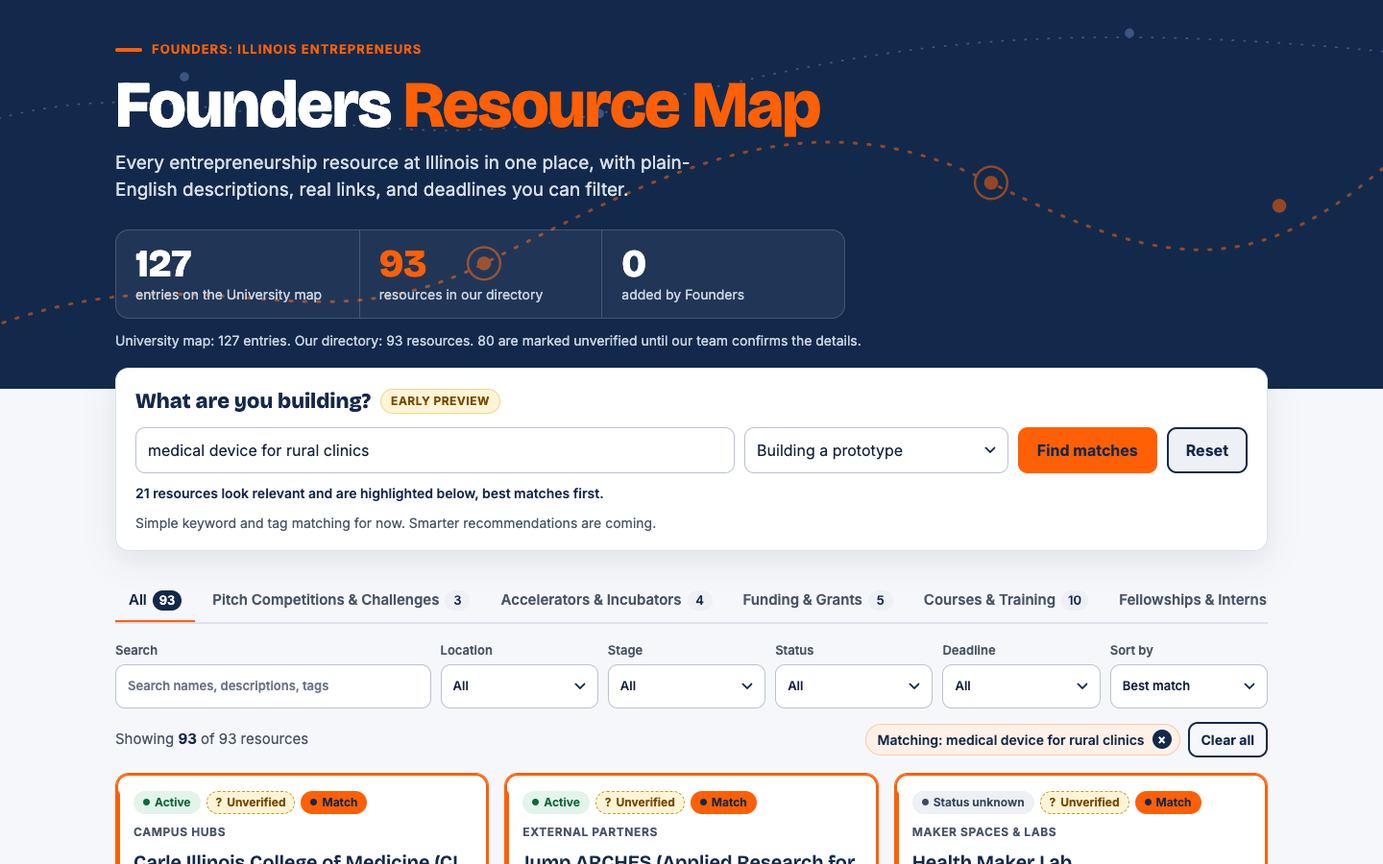
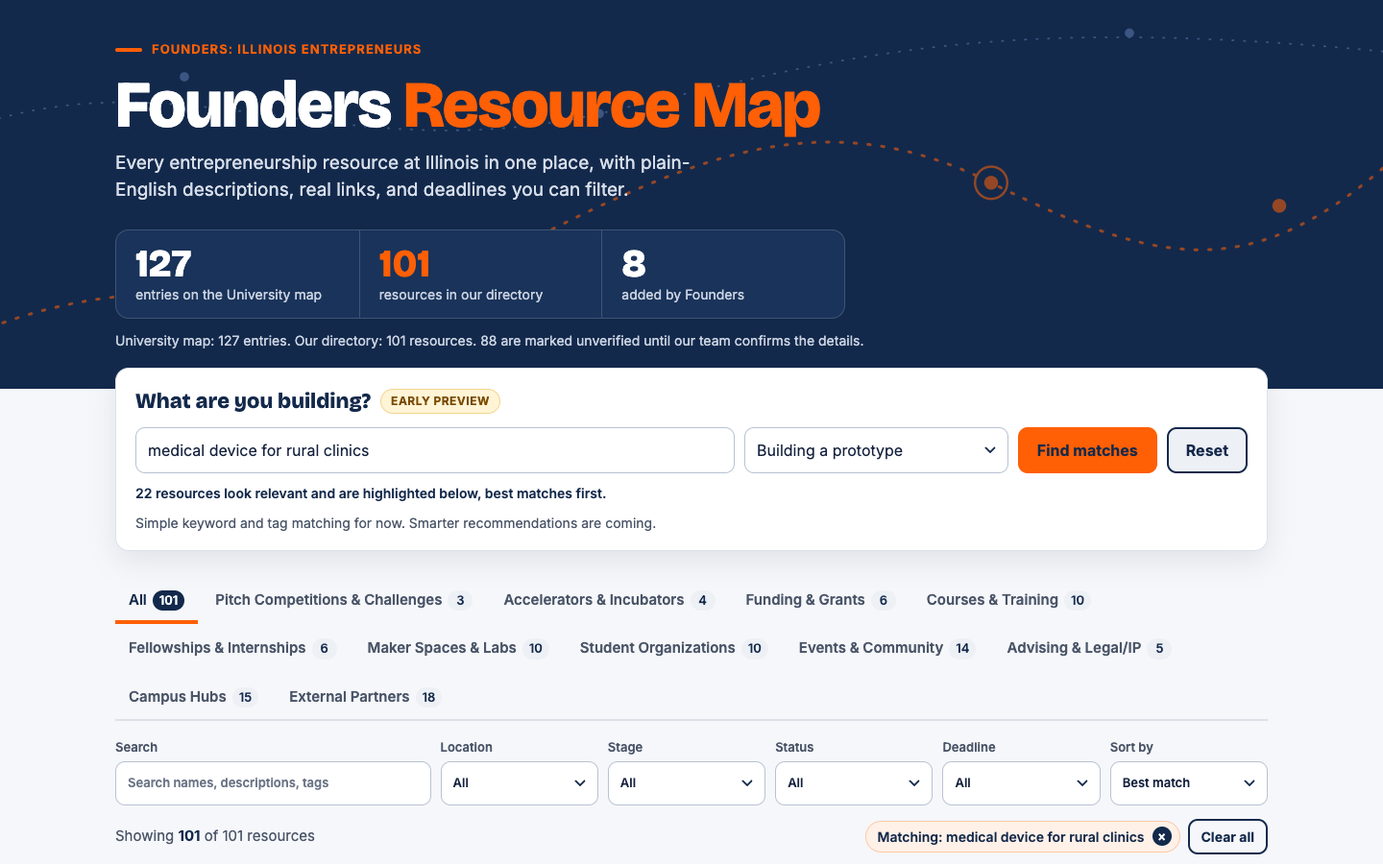
Build the GBM site, gap analysis, README, and screenshots
- docs/index.html: self-contained directory with tabs, search, filters,
  chips, deadline sort, detail panel, unverified markers, early-preview matcher
- scripts/test_site.cjs: Playwright smoke test; screenshots in docs/screenshots
- notes/gap_analysis.md with evidence for additions and stale map entries
- README with publishing, Airtable import, and verification policy

diff --git a/docs/index.html b/docs/index.html
@@ -122,6 +122,7 @@ select { appearance: none; padding-right: 34px;
 }
 .tab:hover { color: var(--navy); }
 .tab[aria-selected=true] { color: var(--navy); border-bottom-color: var(--orange); }
+@media (min-width: 900px) { .tabs { flex-wrap: wrap; overflow: visible; } }
 .tab .count { display: inline-block; min-width: 26px; margin-left: 6px; padding: 1px 7px; border-radius: 999px; background: var(--gray-soft); color: var(--navy); font-size: 13px; text-align: center; }
 .tab[aria-selected=true] .count { background: var(--navy); color: #fff; }
 
@@ -197,7 +198,7 @@ dialog.detail[open] { animation: slide .18s ease-out; }
 @media (prefers-reduced-motion: reduce) { dialog.detail[open], .card { animation: none; transition: none; } }
 .detail-inner { display: flex; flex-direction: column; height: 100%; }
 .detail-head { background: var(--navy); color: #fff; padding: calc(env(safe-area-inset-top, 0px) + 20px) 22px 20px; position: relative; }
-.detail-head .cat { color: var(--orange); font-size: 12px; font-weight: 700; letter-spacing: .06em; text-transform: uppercase; }
+.detail-head .cat { margin-right: 48px; color: var(--orange); font-size: 12px; font-weight: 700; letter-spacing: .06em; text-transform: uppercase; }
 .detail-head h2 { font-family: var(--display); font-size: 28px; line-height: 1.1; margin: 6px 44px 10px 0; }
 .detail-head .close { position: absolute; top: calc(env(safe-area-inset-top, 0px) + 14px); right: 14px; width: 40px; height: 40px; border-radius: 10px; border: 1.5px solid rgba(255,255,255,.4); background: transparent; color: #fff; font-size: 22px; cursor: pointer; }
 .detail-head .close:hover { background: rgba(255,255,255,.12); }

diff --git a/scripts/site_template.html b/scripts/site_template.html
@@ -122,6 +122,7 @@ select { appearance: none; padding-right: 34px;
 }
 .tab:hover { color: var(--navy); }
 .tab[aria-selected=true] { color: var(--navy); border-bottom-color: var(--orange); }
+@media (min-width: 900px) { .tabs { flex-wrap: wrap; overflow: visible; } }
 .tab .count { display: inline-block; min-width: 26px; margin-left: 6px; padding: 1px 7px; border-radius: 999px; background: var(--gray-soft); color: var(--navy); font-size: 13px; text-align: center; }
 .tab[aria-selected=true] .count { background: var(--navy); color: #fff; }
 
@@ -197,7 +198,7 @@ dialog.detail[open] { animation: slide .18s ease-out; }
 @media (prefers-reduced-motion: reduce) { dialog.detail[open], .card { animation: none; transition: none; } }
 .detail-inner { display: flex; flex-direction: column; height: 100%; }
 .detail-head { background: var(--navy); color: #fff; padding: calc(env(safe-area-inset-top, 0px) + 20px) 22px 20px; position: relative; }
-.detail-head .cat { color: var(--orange); font-size: 12px; font-weight: 700; letter-spacing: .06em; text-transform: uppercase; }
+.detail-head .cat { margin-right: 48px; color: var(--orange); font-size: 12px; font-weight: 700; letter-spacing: .06em; text-transform: uppercase; }
 .detail-head h2 { font-family: var(--display); font-size: 28px; line-height: 1.1; margin: 6px 44px 10px 0; }
 .detail-head .close { position: absolute; top: calc(env(safe-area-inset-top, 0px) + 14px); right: 14px; width: 40px; height: 40px; border-radius: 10px; border: 1.5px solid rgba(255,255,255,.4); background: transparent; color: #fff; font-size: 22px; cursor: pointer; }
 .detail-head .close:hover { background: rgba(255,255,255,.12); }

diff --git a/scripts/validate.py b/scripts/validate.py
@@ -5,7 +5,8 @@ Usage:
     python3 scripts/validate.py            # structure checks + live URL checks
     python3 scripts/validate.py --no-urls  # structure checks only (fast, offline)
 
-Writes the results into the AUTO-VALIDATION section of notes/to_confirm.md.
+A full run writes the results into the AUTO-VALIDATION section of notes/to_confirm.md.
+A --no-urls run only prints them.
 Exits with code 1 if any structural error is found (URL failures are reported
 for humans to check but do not fail the run, since some sites block scripts).
 """
@@ -233,7 +234,8 @@ def main():
     errors, warnings = check_rows(rows)
     urls_checked = "--no-urls" not in sys.argv
     url_total, url_failures = check_urls(rows) if urls_checked else (0, [])
-    write_report(errors, warnings, url_total, url_failures, urls_checked)
+    if urls_checked:  # a quick --no-urls run leaves the last full report in place
+        write_report(errors, warnings, url_total, url_failures, urls_checked)
     print(f"{len(rows)} rows. {len(errors)} errors, {len(warnings)} warnings.")
     if urls_checked:
         print(f"URLs: {url_total} checked, {len(url_failures)} failed.")

diff --git a/notes/gap_analysis.md b/notes/gap_analysis.md
@@ -1,0 +1,125 @@
+# Gap analysis
+
+Source checked: https://entrepreneurship.illinois.edu/about-our-ecosystem/entrepreneurship-ecosystem-map
+(snapshot saved as `data/map_snapshot_2026-10-13.html`). All checks done 2026-10-13.
+
+## Summary
+
+| | Count |
+|---|---|
+| Entries listed on the University map | 127 |
+| Canonical resources after deduplication and merges | 93 |
+| Resources added by Founders (not on the map) | 8 |
+| Total resources in our directory | 101 |
+| Candidates checked and not added (rejected, merged, or already covered) | 26 |
+| Map resources flagged as renamed, defunct, merged, or broken | 34 |
+
+## What the map has
+
+- One long page with three overview groups (Internal Partners, Urbana-Champaign, National &
+  Regional), then sub-lists under OVCRI (EnterpriseWorks, Research Park), Illinois Ventures, OTM,
+  Carle Illinois, Siebel Center for Design, Grainger (Landuyt Center, HCESC, other), Gies (OVAEL,
+  other), Student Organizations, Other Internal Partners, and External Partners (Urbana-Champaign,
+  Chicago, National & Regional).
+- 127 entries in total. 26 resources appear more than once, accounting for 59 of the 127 lines.
+  City Scholars appears 4 times. I-Corps, Jump ARCHES, the Innovation LLC, and Illinois Ventures
+  appear 3 times each. Every appearance is recorded in `data/raw_map_entries.csv`.
+- One entry ("Student Organizations" in the overview) points to a section rather than naming a resource.
+
+## What the map lacks (evidence: the snapshot)
+
+| Gap | Evidence | How our directory fixes it |
+|---|---|---|
+| No descriptions | Every entry is a bare name, sometimes with partner names in parentheses | 1 to 2 sentence plain-English description per resource, plus "good for" and "ideal participant" |
+| No link per resource | The partner list has no links. The only links are 8 "Looking for...?" footer links, and one of those (Landuyt Center) points to the old domain `tec.illinois.edu`, which redirects to `landuyt.illinois.edu` | Official URL per resource, checked by `scripts/validate.py` |
+| No dates or deadlines | No dates anywhere in the list | `next_deadline` and `deadline_note`, filled only from official pages |
+| No filtering or search | Static bulleted lists | Category tabs, search, location, stage, status, and deadline filters |
+| No status | Defunct programs are listed alongside active ones (see below) | `status` with evidence URLs; unverified entries are marked in the UI |
+| Hard to scan | Mixed casing (all-caps sub-headings), a typo in a heading ("LANDUYT CENTER FOR ENTREPRENEUR (FORMERY TEC)"), and repeated entries | One card per resource, consistent names |
+| Organized by owner, not by student need | Sections follow the org chart (OVCRI, Grainger, Gies) | Tabs follow what a student wants: compete, fund, build, learn, find a community |
+
+## Resources added by Founders
+
+Each has `on_university_map=FALSE` and shows an "Added by Founders" badge on the site. All are
+marked `needs_confirmation=TRUE` until a teammate checks them (see `to_confirm.md`).
+
+| Resource | id | Why it qualifies | Evidence |
+|---|---|---|---|
+| Product Space UIUC | `product-space-uiuc` | Active student org that trains members in product management and design and builds products with companies; October 2026 events listed | https://productspaceuiuc.org/about ; https://one.illinois.edu/productspace/home/ |
+| Founders Week | `founders-week` | Entrepreneurship at Illinois's flagship ecosystem week. Linked in the site navigation but not listed on the map. The 2026 edition ran Sept 30 to Oct 3, 2026 | https://entrepreneurship.illinois.edu/founders-week |
+| Illinois SBDC at Champaign County EDC | `illinois-sbdc-champaign` | Free one-on-one small business advising in Champaign. The map lists the host (Champaign County EDC) but not the SBDC itself | https://cusbdc.org/ ; https://www.champaigncountyedc.org/illinois-small-business-development-center |
+| EnterpriseWorks Catapult | `enterpriseworks-catapult` | Current EnterpriseWorks award covering early professional services for new university startups; missing from the map's EnterpriseWorks and Research Park lists | https://researchpark.illinois.edu/catapult/ ; https://researchpark.illinois.edu/cozad-startups-receive-awards/ |
+| Venture Capital Association (Illini VCA) | `illini-vca` | Student org teaching how investors evaluate startups; Fall 2026 bootcamp running | https://one.illinois.edu/venturecapitalassociation/home/ |
+| Orange & Blue Ventures | `orange-and-blue-ventures` | New Gies student venture investing program launching Fall 2026 | https://giesbusiness.illinois.edu/experience/orange-and-blue-ventures |
+| Illinois Business Consulting | `illinois-business-consulting` | Student consulting firm serving startups among its clients, parallel to OTCR and CUBE, which are on the map. Status is Unknown because only a secondary source (U.S. News, June 2026) shows 2026 activity | https://giesbusiness.illinois.edu/experience/experiential-learning/illinois-business-consulting |
+| Jackson Innovation Studio | `jackson-innovation-studio` | MechSE makerspace with 3D printers and laser cutters open to students for personal projects | https://mechse.illinois.edu/undergraduate/makerworks/jackson-innovation-studio |
+
+## Candidates checked and rejected
+
+Some things assumed to be missing are already on the map: OTCR, Founders, Zero2One,
+EntreCORPS, Enactus, CUBE, AxisMed, Cozad, iVenture, I-Corps, IDEA Lab, and Illinois MakerLab.
+
+| Candidate | Decision | Reason | Evidence |
+|---|---|---|---|
+| HackIllinois | Rejected for now | Real and active (2026 edition held Feb 27 to Mar 1, 2026), but no startup or entrepreneurship track or prize found. The request was for startup-track hackathons. Add it if the team decides general hackathons belong | https://2026.hackillinois.org/ ; https://hackillinois-2026.devpost.com/ |
+| Keywords AI Hackathon UIUC | Rejected | One-time sponsor event (Jan 31 to Feb 1, 2026) | https://keywords-ai-hackathon-uiuc.devpost.com/ |
+| Research Park Hackathon | Rejected | For interns and employees of Research Park companies, not students generally | https://researchpark.illinois.edu/2026-hackathon-winner-brunswick-boating/ |
+| UIUC Product Hackathon | Merged | Run by Product Space; covered in that entry | https://product-hackathon-uiuc.devpost.com/ |
+| Parkland CobraVenture | Rejected | Active, but limited to current Parkland College students | https://parkland.edu/Main/Life-at-Parkland/Student-Life/Parkland-Entrepreneurial-Network/CobraVenture |
+| Parkland Business Entrepreneurship Certificate | Rejected | Community college certificate; low relevance to enrolled UIUC students | https://www.parkland.edu/Portals/3/Global/Documents/catalog-POS/BusinessEntrepreneurship.pdf |
+| Research Park Student Startup Tenancy | Already covered | Covered by the map's "Incubator labs, offices, & maker space" | https://researchpark.illinois.edu/locate-here/becoming-a-tenant/ |
+| EnterpriseWorks Shared Services | Rejected | Service for incubator tenants; for students it is a job, not a venture resource | https://researchpark.illinois.edu/tenantservices/ |
+| Research Park Career Fair | Rejected | Recruiting event; overlaps the map's Recruitment Services and Company Internships | https://researchpark.illinois.edu/all-events/career-fair/ |
+| Research Park Makerspace | Rejected | Tenants only; page dated 2019 | https://researchpark.illinois.edu/makerspace/ |
+| Research Park Intern Awards and podcast | Rejected | Recognition and media, not a resource | https://researchpark.illinois.edu/20th-annual-intern-awards/ |
+| Gies student consulting projects | Rejected | Curricular client projects, not entrepreneurship | https://giesbusiness.illinois.edu/corporate/student-consulting-projects |
+| Hult Prize at UIUC | Rejected | No UIUC campus round found for 2025 or 2026 | https://www.iit.edu/events/hult-prize-regional-competition |
+| Illinois Law Innovation and Entrepreneurship Clinic | Rejected for now | Only a 2025 faculty job posting for a planned clinic; no official page shows it operating. Re-check on law.illinois.edu | https://www.cleaweb.org/job-postings/university-of-illinois-college-of-law-innovation-and-entrepreneurship-clinic-clinical-professor |
+| Siebel Center IoT Makerspace | Rejected | Small access-controlled room for one lab community | https://iot.cs.illinois.edu/makerspace/ |
+| Disruption Lab (Gies) | Rejected | Corporate emerging-tech project lab; latest evidence Spring 2025 | https://giesbusiness.illinois.edu/disruption-lab |
+| WIE Connect / Women in Entrepreneurship (OVAEL) | Rejected | Latest dated event January 2022 | https://giesgroups.illinois.edu/ovael/women-in-entrepreneurship/ |
+| Women in Entrepreneurship @ Illinois | Rejected | Instagram only, no 2025 or 2026 activity | https://www.instagram.com/uiucwe/ |
+| BOLD | Rejected | No dates or recent activity | https://publish.illinois.edu/bold-illinois/ |
+| Society of Women in Business | Rejected | Career-focused, not entrepreneurship | https://www.facebook.com/SWBUIUC/ |
+| Gies Women in Business event | Rejected | One-time career event (March 12, 2026) | https://giesonline.illinois.edu/event/2026/03/12/default-calendar/women-in-business--connect--empower--succeed |
+| Illini Entrepreneurship Network | Rejected | No evidence it exists | none found |
+| Illinois Startup Showcase | Rejected | No UIUC event by this name found | none found |
+| Illini Startups meetup | Rejected | Only a 2013-era blog mention | https://dormroomfund.medium.com/how-to-start-a-startup-uiuc-40cd679447b0 |
+| Third Coast Foundry | Rejected | Startup VC access hub in San Francisco, not student-facing | https://giesbusiness.illinois.edu/origin-ventures-office-of-entrepreneurship |
+| IVCA Scholars (Chicago) | Rejected | Trade group's VC careers scholarship, not a UIUC entrepreneurship resource | https://www.illinoisvc.org/initiatives |
+
+## Renamed, defunct, or broken map entries
+
+These stay in the directory because they are on the University map, but each carries an honest
+status and a note. Status is `Inactive` only where an official page says the program ended.
+
+| Map entry | Finding | Our status | Evidence |
+|---|---|---|---|
+| Landuyt Center for Entrepreneurship (Formerly TEC) | Renamed. `tec.illinois.edu` 301-redirects to `landuyt.illinois.edu`. Map footer still links the old domain | Active | https://landuyt.illinois.edu |
+| Office of the Associate Dean for I&E (Grainger) | Now an Assistant Dean role held by the Landuyt director; no separate office page. Merged into Landuyt Center | (merged) | https://grainger.illinois.edu/about/directory/administration |
+| Origin Ventures Academy for Entrepreneurial Leadership (OVAEL) | Gies now presents it as the Origin Ventures Office of Entrepreneurship (announced April 2025 as an expansion) | Active | https://giesbusiness.illinois.edu/origin-ventures-office-of-entrepreneurship |
+| EnterpriseWorks & EW 2.0 | EW 2.0 is a planned building with no opening date as of Aug 2026. The `/enterpriseworks` link redirects to an unrelated news article | Active | https://researchpark.illinois.edu/locate-here/enterpriseworks-incubator-1/ |
+| Chicago Innovation Exchange (CIE) & Illinois Partnership | CIE became part of UChicago's Polsky Center in 2016 (now Polsky Exchange). Merged into Polsky Center | (merged) | https://polsky.uchicago.edu/ |
+| Evergreen Fund (Illinois Ventures) | No official page mentions it. Merged into Illinois Ventures pending confirmation | (merged) | https://illinoisventures.com/ |
+| Illinois Reboot Tech Training | Research Park says it has been retired | Inactive | https://researchpark.illinois.edu/all-events/ilreboot/ |
+| Innovation Celebration | Last held 2019; 2020 edition postponed indefinitely | Inactive | https://innovationcelebration.com/ |
+| Pygmalion Tech Festival | Festival is active (Sept 24 to 27, 2026) but the tech track appears only in 2016 to 2019 sources | Active (festival) | https://thisispygmalion.com/ |
+| Champaign-Urbana CEO Roundtable | Now called the CEO and Founders Roundtable | Unknown | https://researchpark.illinois.edu/all-events/ceo-founders-roundtable/ |
+| AWARE seed grants & mentoring | Official page returns 404; not on current Research Park resources | Unknown | https://researchpark.illinois.edu/AWARE (404) |
+| I-Start Accelerator Program | Only source is a 2011 pilot announcement | Unknown | https://researchpark.illinois.edu/i-start-program-launching-soon-il-dceo-awards-grant-funding/ |
+| FAST Center SBIR & STTR Assistance | Link from the incubator page returns 404; working page is `/resources/illinois-fast-center/` | Unknown | https://researchpark.illinois.edu/resources/illinois-fast-center/ |
+| Alchemy Technology Foundry | `alchemyfoundry.com` redirects to a domain-for-sale page; not on current Landuyt pages | Unknown | https://alchemyfoundry.com/ |
+| Innovation Expo | No listings after 2020 | Unknown | https://calendars.illinois.edu/detail/7/33389506 |
+| Brand Hub (and its certificates and workshops) | `brandhub.illinois.edu` does not resolve; newest items about 2023 to 2024 | Unknown | DNS failure on 2026-10-13 |
+| Kleinmuntz Center (IGB) | No news after 2022 | Unknown | https://kleinmuntzcenter.illinois.edu/ |
+| SCD Assessment & Research Lab | Now called the Assessment and Research team | Unknown | https://designcenter.illinois.edu/research |
+| SCD Scholars & Fellows | No Fellows program found; scholar program now called Research and Practice Scholars | Unknown | https://designcenter.illinois.edu/aboutscd/ExperientiallLearning/researchscholars |
+| IDEA Lab | Official expansion is now "Innovation and Design in Engineering and the Arts" | Unknown | https://www.library.illinois.edu/enx/idea-lab/about/ |
+| Startup City Scholars | Not on the current City Scholars site; last seen in March 2025 news | Active (City Scholars) | https://cityscholars.grainger.illinois.edu/ |
+| Duality Quantum Accelerator | Site says Alchemist Chicago now includes Duality | Active | https://www.dualityaccelerator.com/ |
+| Illinois Ag Tech Accelerator | Latest cohort found is 2023; gener8tor's agtech page returns 404 | Unknown | https://researchpark.illinois.edu/illinois-agtech-accelerator-launches-fifth-cohort-with-five-startups-2/ |
+| Illinois University Incubator Network | Research Park page returns 404; no activity after 2024 | Unknown | https://illinoisincubators.org/ |
+| Translational Research Facility | No UIUC facility by this name found | Unknown | https://medicine.illinois.edu/research/facilities |
+| Catalyze, ThinkChicago, ELLC Roundtable, EILC | Newest dated activity is 2022 to 2024 | Unknown | see each row's `source_urls` |
+| Zero2One | Site content stops at Fall 2024; one LinkedIn page marked inactive | Unknown | https://www.zero2onevc.com/ |
+| OTCR Consulting, Founders | Old domains are broken (`otcr.illinois.edu` does not resolve; `founders.illinois.edu` has a certificate error). Rows point to current RSO or Gies pages | Unknown | https://one.illinois.edu/FoundersIllinoisEntrepreneurs/ |

diff --git a/README.md b/README.md
@@ -1,2 +1,140 @@
-# founders-resource-map
-A student-built map of the UIUC entrepreneurship ecosystem, with filters for category, location, and deadlines.
+# Founders Resource Map
+
+A student-built directory of entrepreneurship resources for University of Illinois
+Urbana-Champaign students, with descriptions, links, deadlines, and filters. Built by the
+Founders: Illinois Entrepreneurs team.
+
+> Student-run project, not an official University of Illinois resource.
+
+![Desktop view](docs/screenshots/desktop.png)
+
+## Why this exists
+
+The University's [Entrepreneurship Ecosystem Map](https://entrepreneurship.illinois.edu/about-our-ecosystem/entrepreneurship-ecosystem-map)
+lists about 127 partners and programs. It is a useful starting point, but for a student trying to
+find help it has real problems:
+
+- **No descriptions.** Entries are bare names, so you cannot tell what a program does or who it is for.
+- **No links per resource.** The list has no links. The only links are eight footer links, and one of them still points to the old `tec.illinois.edu` domain.
+- **No dates or deadlines.** You cannot tell what is open now or what closes soon.
+- **No search or filtering.** It is a long set of bulleted lists organized by org chart.
+- **Duplicates and stale entries.** 26 resources appear more than once, and several listed programs look renamed or discontinued.
+- **Hard to scan.** It is a plain page with mixed casing and no visual hierarchy.
+
+This directory fixes those problems. It has one card per resource with a plain-English
+description, an official link, verified dates, category tabs, search, and filters. It also
+adds resources the map is missing, such as Product Space. See `notes/gap_analysis.md` for the
+evidence.
+
+**Current numbers (2026-10-13):** 127 map entries, 101 resources in the directory (93 from the
+map after deduplication, 8 added by Founders). 88 resources are marked unverified until the team
+confirms them.
+
+## Folder layout
+
+```
+README.md
+data/
+  raw_map_entries.csv          every entry exactly as listed on the map, with its section path and canonical id
+  resources.csv                source of truth: one row per canonical resource, ready to import into Airtable
+  resources.json               same data, generated for the site
+  map_snapshot_2026-10-13.html saved copy of the University map page used for extraction
+notes/
+  schema.md                    every field, its type, allowed values, and an example
+  taxonomy.md                  categories (site tabs), tag vocabulary, stage values, usage rules
+  gap_analysis.md              what the map has and lacks, what we added, what looks defunct, with evidence
+  to_confirm.md                checklist of facts a person must verify, split into batches
+scripts/
+  extract_map.py               parses the map into raw_map_entries.csv
+  build.py                     resources.csv -> resources.json + docs/index.html
+  validate.py                  checks the CSV and every URL, writes results into to_confirm.md
+  site_template.html           the site's HTML, CSS, and JS (build.py injects the data)
+  test_site.cjs                headless browser smoke test and screenshots
+docs/
+  index.html                   the shareable site: one self-contained file
+  screenshots/                 desktop and mobile screenshots
+```
+
+## Open the site locally
+
+Double-click `docs/index.html`. It works offline with no server and no build step, because the
+data is embedded in the file. (The fonts load from Google Fonts when you are online and fall back
+to system fonts when you are not.)
+
+## Publish with GitHub Pages
+
+1. Push the repo to GitHub.
+2. Go to **Settings > Pages**.
+3. Under **Build and deployment**, choose **Deploy from a branch**, branch `main`, folder **`/docs`**. Save.
+4. After a minute the site is live at `https://<org-or-user>.github.io/founders-resource-map/`.
+
+## Edit the data, then regenerate the site
+
+`data/resources.csv` is the source of truth. Never edit `resources.json` or `docs/index.html` by hand.
+
+```bash
+# 1. Edit data/resources.csv (a spreadsheet app or a text editor; keep UTF-8 and the header row)
+# 2. Check it
+python3 scripts/validate.py            # add --no-urls for a quick offline check
+# 3. Rebuild the JSON and the site
+python3 scripts/build.py
+# 4. Optional: browser test and fresh screenshots (needs Node)
+npm i --no-save playwright && npx playwright install chromium
+node scripts/test_site.cjs
+```
+
+All Python scripts use only the standard library (Python 3.9+). `validate.py` exits with an
+error if the CSV breaks the schema, and lists URLs that did not load in `notes/to_confirm.md`.
+Some sites block scripts, so check those URLs in a browser before changing anything.
+
+To re-extract the University map (for example, if it changes): `python3 scripts/extract_map.py --live`.
+If the script stops on an "Unmapped entry", add that entry to the `CANONICAL` table in the script.
+
+## Import into Airtable
+
+The Airtable free plan allows 1,000 records per base and 5 editors, which is enough for this project.
+
+1. Create a base and choose **Import > CSV file**, then pick `data/resources.csv`.
+2. Set field types after import (see `notes/schema.md` for the full list):
+
+| Field type | Fields |
+|---|---|
+| **Single select** | `category`, `location`, `stage`, `status`, `recurrence`, `student_eligible`, `confidence` |
+| **Multiple select** | `tags` (Airtable splits on commas, so first convert semicolons: in the CSV, replace `;` with `,` in the tags column only, or import as text and use a formula/automation to split) |
+| **Checkbox** | `on_university_map`, `needs_confirmation` (TRUE becomes checked) |
+| **Date (ISO format)** | `next_deadline`, `last_verified` |
+| **URL** | `url` |
+| **Email** | `contact_email` |
+| **Long text** | `description`, `deadline_note`, `notes`, `source_urls` |
+| Single line text | everything else |
+
+3. Make `name` the primary field. Keep `id` as a normal field and never change an existing id, because the site and any future integrations (Luma, the larger website) key on it.
+4. Create these views:
+   - **By category:** Grid view grouped by `category`, sorted by `name`.
+   - **Closing soon:** filter `next_deadline` is on or after today, sorted by `next_deadline` ascending.
+   - **Active only:** filter `status` = Active.
+   - **Needs confirmation:** filter `needs_confirmation` is checked, grouped by `category`. This is the team's work queue.
+5. To update the site from Airtable: **Download CSV** from the grid view (all fields, original column order), save it over `data/resources.csv`, convert tags back to semicolons if you changed them, then run `validate.py` and `build.py`.
+
+## Data verification policy
+
+A wrong deadline in front of students is worse than a blank one, so:
+
+- **Never guess.** Deadlines, dates, costs, award amounts, eligibility, and contact info come only from an official page. If you cannot verify it, leave it blank, set `needs_confirmation=TRUE`, and add a line to `notes/to_confirm.md` saying exactly what to check and where.
+- **Status** is `Active` only when an official page shows current activity (a 2026 or upcoming date, an open application, or a recent event), with that page in `source_urls`. `Inactive` needs clear evidence that the program ended. Otherwise it is `Unknown`.
+- **Confidence:** High = an official page confirms it. Medium = a credible secondary source. Low = inferred.
+- **last_verified** is the date a person checked the row, not a date shown on the page.
+- **Descriptions** are written in our own words, 1 to 2 sentences, with no copied site text and no em dashes.
+- **The site shows uncertainty.** Unverified entries carry an "Unverified" badge and a notice in the detail panel. Unknown status is shown as "Status unknown".
+
+## Suggest or correct a resource
+
+- **Teammates:** pick a batch in `notes/to_confirm.md`, verify the items, edit `data/resources.csv` (or Airtable), run `validate.py` and `build.py`, and open a pull request. Put the evidence URL in `source_urls` and set `last_verified` to the day you checked.
+- **New resource:** add a row with a new lowercase slug `id`, `on_university_map=FALSE`, and the evidence in `source_urls`, then add a line to the "Resources added by Founders" table in `notes/gap_analysis.md`.
+- **Anyone else:** use the "Suggest a resource" link in the site footer. It is a `mailto:` placeholder (`founders-resources@example.com`), so replace it in `scripts/site_template.html` with the team's real address and rebuild.
+
+## Disclaimer
+
+This is a student-run project by Founders: Illinois Entrepreneurs. It is not an official
+University of Illinois resource and is not endorsed by the University. Program details change;
+always confirm on the official site before applying.

diff --git a/notes/to_confirm.md b/notes/to_confirm.md
@@ -413,7 +413,8 @@ Last run: 2026-10-13 with `python3 scripts/validate.py`.
 - [ ] `brand-hub-workshops`: no official URL
 - [ ] `brand-hub`: no official URL
 
-**URL check: 8 of 229 URLs did not return a success response.** Open each in a browser. If it works, leave it. If it is broken, find the new page and update `url` or `source_urls`.
+**URL check: 9 of 229 URLs did not return a success response.** Open each in a browser. If it works, leave it. If it is broken, find the new page and update `url` or `source_urls`.
+- [ ] https://alchemyfoundry.com/ returned redirects to a domain-for-sale page (https://www.hugedomains.com/domain_profile.cfm?d=alchemyfoun). Used by `alchemy-foundry` (source_urls)
 - [ ] https://cancer.illinois.edu/biomedical-research-center/ returned 404. Used by `cancer-center-at-illinois` (source_urls), `translational-research-facility` (source_urls)
 - [ ] https://corporaterelations.illinois.edu/news/hub-brand-innovation-and-advertising-technology-center-advertising-innovation returned 403 (likely blocks automated requests; open it in a browser). Used by `brand-hub` (source_urls)
 - [ ] https://grainger.illinois.edu/news/stories/29522 returned 404. Used by `ew-aware` (source_urls)
